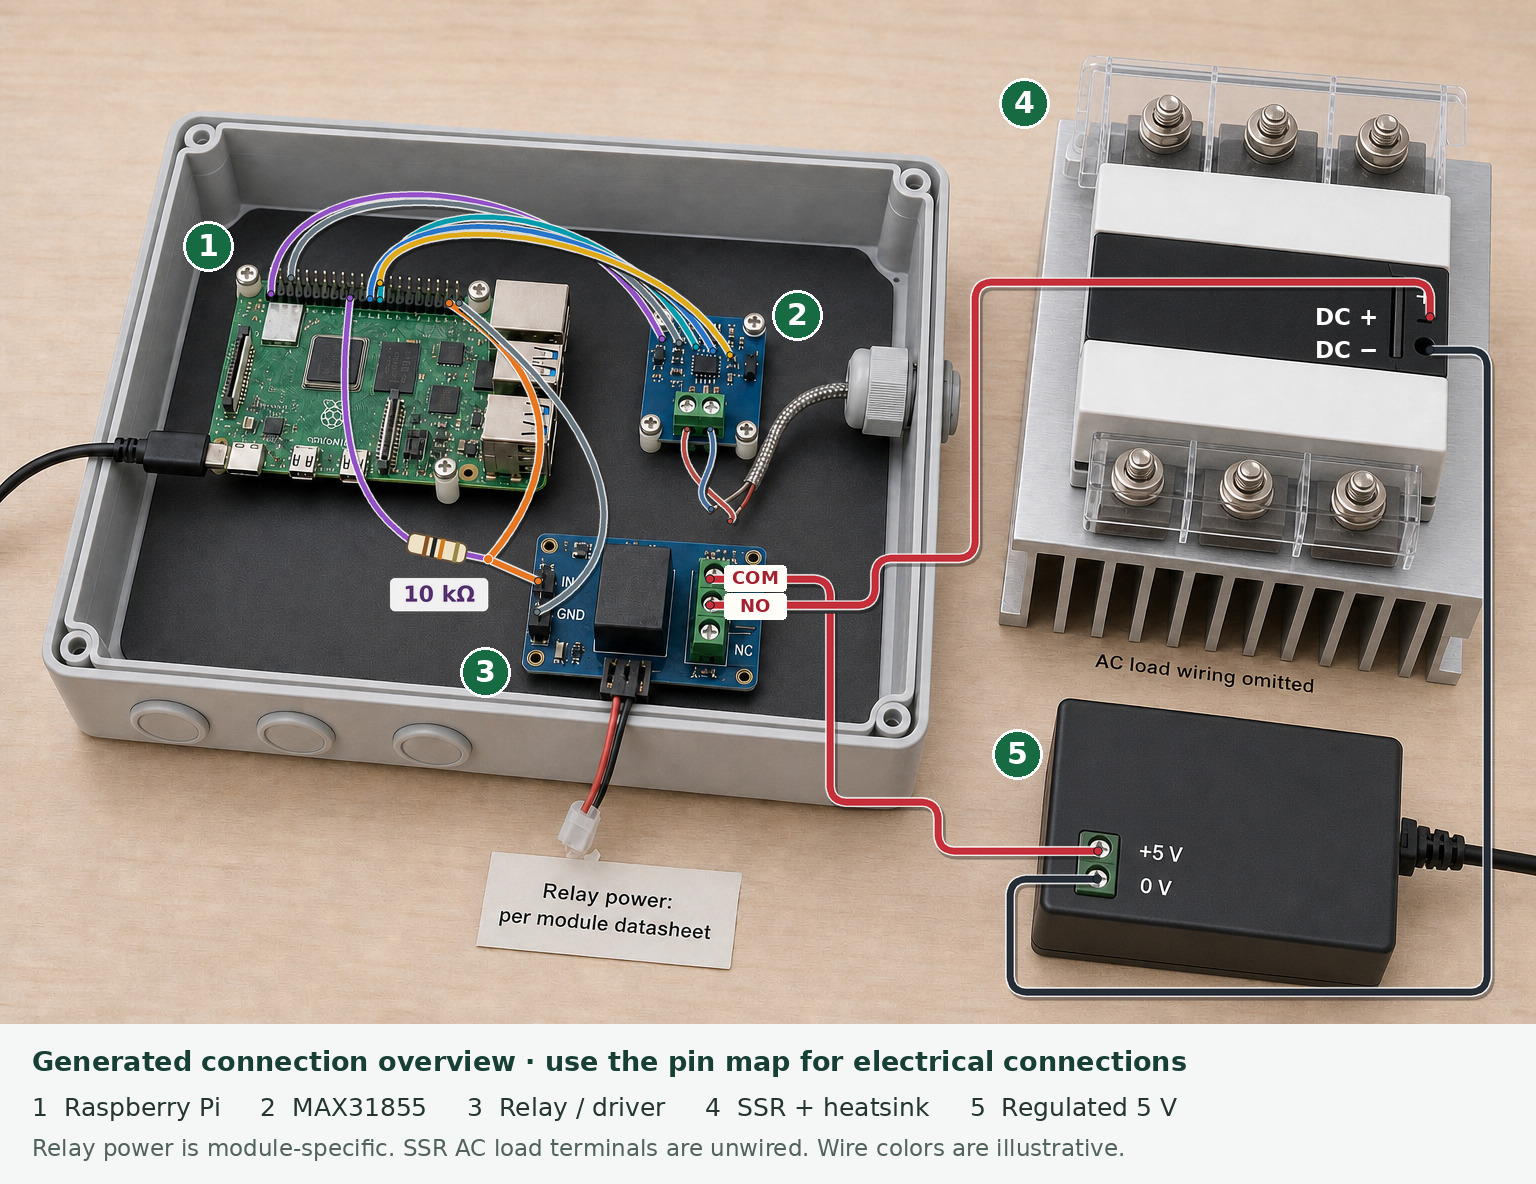
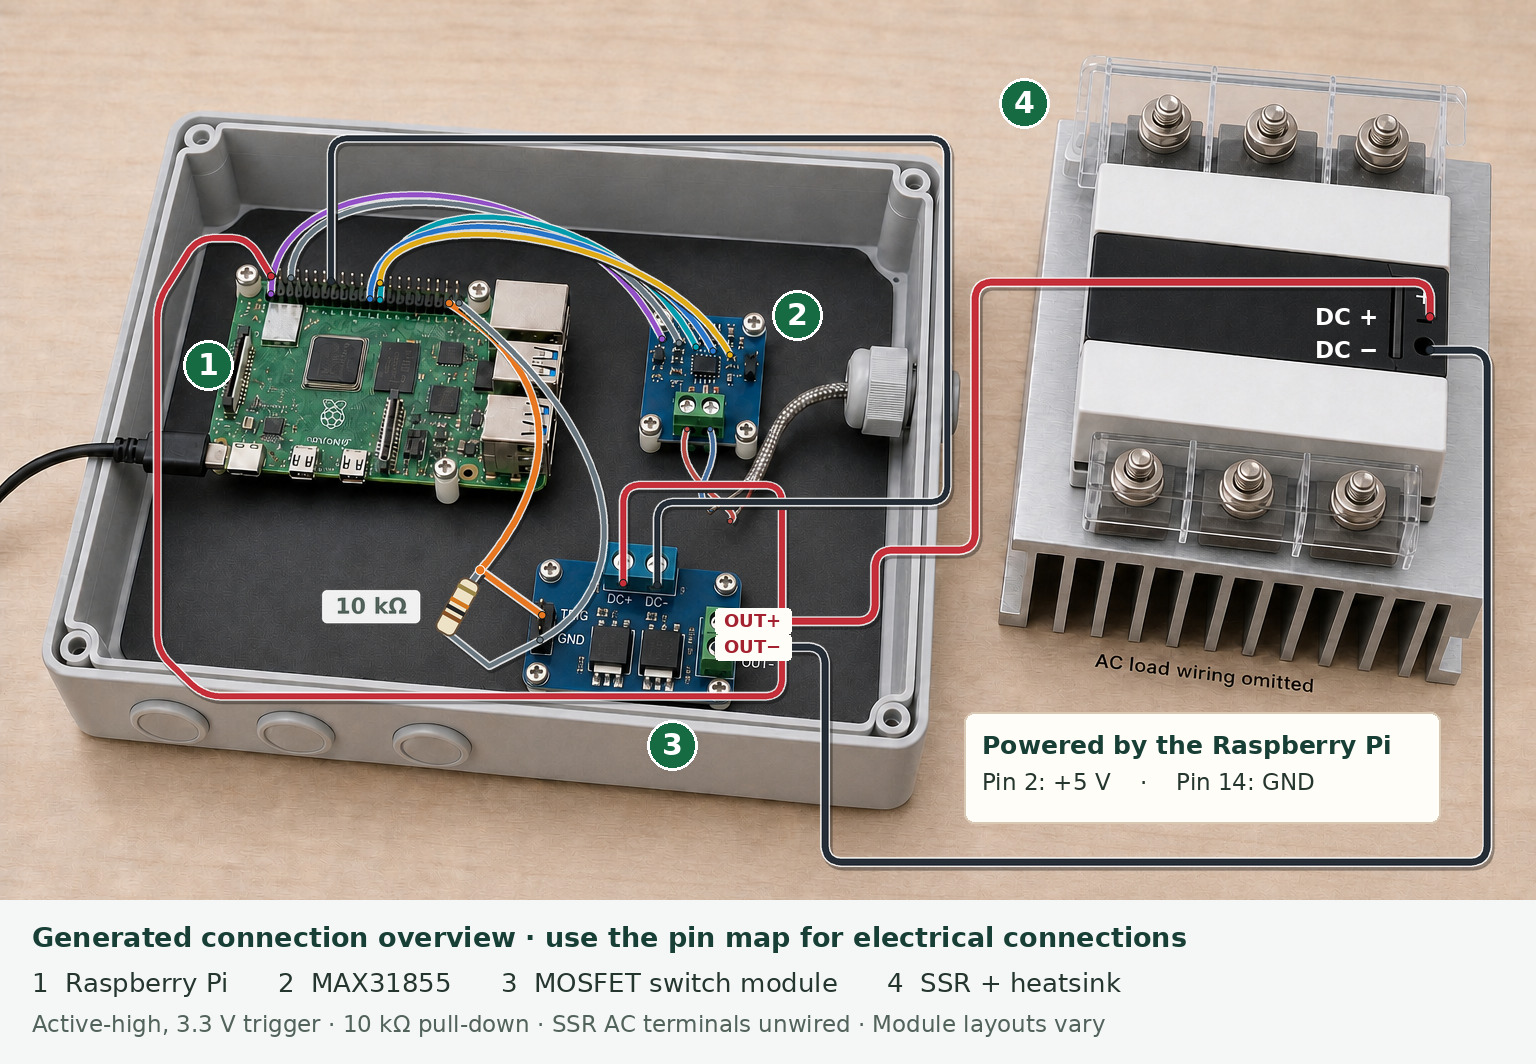
docs: use Pi-powered MOSFET in assembly guide

diff --git a/docs/images/hardware/generated-assembly.md b/docs/images/hardware/generated-assembly.md
@@ -2,7 +2,7 @@
 
 Created 15 October 2026 with the imagegen skill's approved API/CLI fallback,
 using `gpt-image-2`. The initial parts and mounting images used high quality,
-1536 × 1024 PNG. The wired overview uses a medium-quality generated base,
+1536 × 1024 PNG. The current MOSFET wired overview uses a medium-quality generated base,
 with connection lines and labels added locally. These illustrations cover
 component recognition, mounting and low-voltage connection overviews.
 They are not photographs of a completed or tested Raspberry Pi build.
@@ -14,6 +14,12 @@ and annotated PNG originals are retained in the workspace output.
 - [Parts layout](raspberry-pi-parts-generated.jpg)
 - [Assembly layout](raspberry-pi-assembly-generated.jpg)
 - [Wired assembly overview](raspberry-pi-wired-assembly-generated.jpg)
+
+The current wired overview uses the Raspberry Pi's 5 V header supply and a
+generic active-high, 3.3 V-compatible low-side MOSFET trigger switch module.
+It has no separate SSR-control supply or mechanical relay. The exact purchased
+module must meet the build guide's requirements; the image is not a verified
+product photograph. Earlier relay-version prompts below are retained as history.
 
 Use the [build guide's pin tables and schematic](../../builds/raspberry-pi.md#3-connect-the-low-voltage-parts)
 for electrical connections. Component appearance and wire colors in generated
@@ -42,10 +48,10 @@ Replace the sensor board in Image 1 with the blue MAX31855 breakout from Image 2
 Correct the mounting of both circuit boards. The Raspberry Pi has exactly four gold-ringed mounting holes in its PCB, one near each corner. Put one nylon standoff directly BELOW each actual PCB mounting hole and one small screw THROUGH that same hole from above. All four screw heads must be centered in the gold PCB mounting holes and actually secure the board. Remove every mounting screw or tall pillar that stands beside the Pi rather than passing through it. Do not add extra PCB holes. Apply the same physically correct through-hole mounting to the sensor breakout's corner holes. The PCB undersides must stay clear of the mounting plate. Do not add floating hardware.
 Maintain photographic realism. No new labels, text, wiring connections, lights, mains components or other changes. This remains an unpowered arrangement BEFORE wiring, not a finished or tested controller.
 
-## Wired assembly addition
+## Earlier relay wiring overview (superseded)
 
 Requested 15 October 2026: add the SSR and the connections between components.
-The final image shows a Raspberry Pi, MAX31855, compatible active-low relay,
+That version showed a Raspberry Pi, MAX31855, compatible active-low relay,
 three-phase DC-input SSR on a heatsink, and separate regulated 5 V SSR-control
 supply. The relay's logic/coil supply remains module-specific; its callout is
 deliberately separate from the drawn SSR-control loop. AC load terminals and NC
@@ -56,7 +62,7 @@ not published. A second edit made an unwired component base. Connection paths,
 the pull-up branch, terminal labels and numbered legend were drawn locally from
 the guide's connection table. This overlay shows the electrical relationships;
 generated component geometry is not an actual pin-position or drilling template.
-The final image is a 1536 × 1184 JPEG web copy; the generated base and annotated
+That version used a 1536 × 1184 JPEG web copy; the generated base and annotated
 PNG are retained in the workspace output.
 
 ### Initial wired-image prompt
@@ -84,3 +90,38 @@ Make ONLY these corrections:
 5. Replace the ventilated metal 5 V supply case with an insulated matte-black plastic DC supply block in the same position. Keep a single insulated power-input cable leaving the right edge. The only exposed connections on its front are two small low-voltage output terminals marked +5 V and 0 V, both unwired. No mains terminals or invented certification marks.
 
 Do not draw any new interconnecting wires. Do not add extra components, labels, arrows or current ratings. Do not change the positions or enlarge the parts. Preserve realistic small circuit boards, correct natural shadows and readable original two callouts. The actual connections will be added separately from a verified connection map.
+
+## Current Pi-powered MOSFET overview
+
+Requested 15 October 2026: use the Raspberry Pi's 5 V supply and replace the
+mechanical relay with a MOSFET trigger switch module. The edit used the earlier
+unwired component base as its input, preserving the Pi, sensor and SSR while
+removing the external supply and replacing the relay. It used `gpt-image-2`,
+medium quality, 1536 × 1024, through the approved imagegen API/CLI fallback.
+
+Wires and labels were added locally from the guide's connection map. The
+illustrated module must be an active-high, 3.3 V-compatible, nominal-5 V,
+low-side switch: DC+ feeds OUT+, and the MOSFET switches OUT− to DC−.
+Pi physical pin 2 supplies DC+; pin 14 supplies the DC− ground return;
+pin 37 / BCM26 supplies TRIG; pin 39 supplies the separate logic GND.
+A 10 kΩ pull-down branches from TRIG to logic GND. OUT+ and OUT− connect
+only to the SSR's DC + and −, respectively. The SSR negative input does not
+connect directly to Pi ground. No GPIO signal is powered from 5 V.
+
+The final image is a 1536 × 1064 JPEG, with the wiring and numbered legend
+overlaid on a cropped generated base. Terminal positions are illustrative;
+the pin table, schematic and actual module documentation govern assembly.
+The unannotated base and annotated PNG are retained in the workspace output.
+This replaces the relay/separate-supply version at the same published path.
+
+### MOSFET replacement prompt
+
+Use case: precise-object-edit.
+Asset type: photographic-style component base for a beginner Raspberry Pi kiln-controller assembly guide. This base will receive an exact wiring overlay afterward.
+Image 1 is the edit target, an unwired generated controller layout. Preserve the composition, camera, light, Raspberry Pi at left, blue MAX31855 above middle, gray enclosure and wood workbench. Preserve the three-phase DC-input SSR at right on its finned aluminium heatsink, its SIX large AC load terminals under clear guards, and the separate small DC + and DC - terminals. Keep the Pi's black USB-C power lead connected correctly.
+
+Make these two changes:
+1. Replace ONLY the blue mechanical relay board inside the enclosure with a compact blue MOSFET Field-Effect Transistor Trigger Switch Drive Module PWM, in the same lower-middle footprint and orientation. It must look like a small logic-level MOSFET switch module, with two flat black MOSFET packages and small supporting electronics, NO cube relay. The conceptual module has six separate connection positions: a two-position input power terminal at its TOP edge marked DC+ and DC-, a small two-position signal header at its LEFT edge marked TRIG and GND, and a two-position green screw terminal at its RIGHT edge marked OUT+ and OUT-. Keep every connection visibly separate. The two right output screw terminals should occupy approximately the previous COM and NO positions; there is no third NC terminal. Mount the module through its PCB mounting holes on short standoffs. Remove the previous relay power pigtail, its connector, and the entire 'Relay power: per module datasheet' paper callout. Do not invent a current rating, certification mark or exact brand/model number.
+2. Completely remove the external black 5 V supply block from the lower right, including its input cable and any labels. Restore the natural bare wood workbench in its place. The Pi's USB power lead remains the only incoming control-power cable. Preserve the blank area for a later explanatory wiring legend.
+
+Do NOT draw any interconnecting wires. Keep the Pi header, sensor signal contacts, MOSFET terminals and SSR DC input terminals empty for the later accurate wiring overlay. Keep the two loose thermocouple lead ends resting below the sensor, as in the input. Keep the nearby text 'AC load wiring omitted'. Preserve all unrelated parts and their exact positions as closely as possible; do not change the Pi or sensor connector counts. There must be no mechanical relay, no external low-voltage supply block, no relay pigtail, and no stray old wiring or labels. This is a generated conceptual illustration, not a photograph or pin-position reference for a tested build.

diff --git a/docs/builds/raspberry-pi.md b/docs/builds/raspberry-pi.md
@@ -110,7 +110,7 @@ same network. Use the Pi's IP if the name does not resolve.
 
 **Check:** the page identifies a simulated kiln. Try a sample schedule to learn
 the controls. The preview does not use real GPIO; successful simulation does not
-prove the sensor or relay is connected correctly. End the simulated firing and
+prove the sensor or output driver is connected correctly. End the simulated firing and
 press Ctrl+C in the SSH terminal before continuing.
 
 **If installation fails:** keep the first error, verify your OS/model and review
@@ -170,43 +170,61 @@ Module markings govern: on Adafruit breakouts **3Vo is an output**, not VIN.
 
 ### Heat-request output
 
+This example uses a **MOSFET Field-Effect Transistor Trigger Switch Drive Module
+PWM** that must meet these requirements: **active-high, 3.3 V-compatible trigger,
+nominal 5 V supply, and low-side switching**. Its DC+ supply terminal connects
+internally to OUT+; it switches OUT− to DC− when triggered. The generic product
+name does not establish these properties. Check the exact module's schematic,
+input current and terminal markings before following this example; an input
+pulled up to 5 V is unsuitable for direct Pi GPIO connection.
+
 | Physical Pi pin | GPIO / software name | Connect to |
 | ---: | --- | --- |
-| 37 | BCM26 / `D26` | Compatible 3.3 V driver input |
-| 39 | Ground | Driver input reference where required by its schematic |
+| 2 | +5 V supply rail | MOSFET module DC+ |
+| 14 | Ground | MOSFET module DC− |
+| 37 | BCM26 / `D26`, 3.3 V logic | MOSFET module TRIG / PWM input |
+| 39 | Ground | Module logic GND, if provided separately |
 
-The output must go through a verified compatible interface. Do not connect the
-documented up-to-40 mA SSR input directly to GPIO. The [parts guide](../PARTS.md#choose-the-output-interface-deliberately)
-explains what to establish before buying a driver.
+The module's power and logic grounds share the Pi ground in this example.
+Use its schematic to identify them; terminal positions and labels vary.
+**Physical pin 2 supplies power; physical pin 37 carries only a 3.3 V signal.**
+Never connect 5 V to a GPIO signal pin. Do not connect the documented
+up-to-40 mA SSR input directly to GPIO. The
+[parts guide](../PARTS.md#choose-the-output-interface-deliberately) lists the
+module requirements.
 
-For a **3.3 V-compatible active-low relay** matching the
-[documented example](../HARDWARE.md#4-connect-the-relay-and-ssr-input), connect
-**physical 37 / BCM26 to IN1** and **physical 39 to relay input logic GND**.
-HIGH means no heat request; LOW requests heat. Its dry contacts switch a
-separate regulated 5 V supply into the **3–32 VDC SSR control input**:
+The Pi's normal USB power supply also powers this **3–32 VDC SSR control input**
+through the header and MOSFET module. No separate SSR-control supply is used.
+Allow for the SSR reference's **40 mA maximum input current**, the module's own
+consumption, and all Pi/accessory loads when checking the supply and wiring
+budget. Do not connect an additional powered 5 V supply to the header.
 
-[![Generated conceptual Raspberry Pi, sensor, relay and SSR low-voltage assembly](../images/hardware/raspberry-pi-wired-assembly-generated.jpg)](../images/hardware/raspberry-pi-wired-assembly-generated.jpg)
+[![Generated conceptual Raspberry Pi, sensor, MOSFET switch and SSR assembly using Pi header 5 V](../images/hardware/raspberry-pi-wired-assembly-generated.jpg)](../images/hardware/raspberry-pi-wired-assembly-generated.jpg)
 
 *Generated assembly with a wiring overlay. Use the pin and connection tables as the
 electrical reference; actual module layouts vary. The SSR's AC load terminals
 are shown unwired.*
 
-**1** Raspberry Pi · **2** MAX31855 · **3** Relay/driver ·
-**4** SSR and heatsink · **5** Regulated 5 V SSR-control supply.
+**1** Raspberry Pi · **2** MAX31855 · **3** MOSFET switch module ·
+**4** SSR and heatsink.
 
 | From | To |
 | --- | --- |
-| Pi physical 17 / 3.3 V, through an optional 10 kΩ pull-up if required by the module | Relay IN1 |
-| Separate regulated control supply +5 V | Relay COM |
-| Relay NO (normally open) | SSR DC control input + |
-| Control supply 0 V | SSR DC control input − |
-| Relay NC (normally closed) | Leave unused |
+| Module OUT+ (connected internally to DC+) | SSR DC control input + |
+| Module OUT− (switched return) | SSR DC control input − |
+| Module TRIG / PWM input, through a suitable 10 kΩ pull-down resistor | Module logic GND |
 
-Power the relay's logic and coil according to its **exact module schematic**;
-VCC/JD-VCC connections and jumper positions are module-specific. The SSR-control
-supply's 0 V stays separate from Pi logic GND in this dry-contact example.
-The optional pull-up biases IN1 off only while the Pi's 3.3 V rail exists.
-Relay contacts carry the SSR's low-voltage control current, not kiln mains.
+**Do not connect SSR input − directly to Pi GND:** that would bypass this
+low-side switch. The current path when ON is Pi +5 V → DC+ / OUT+ → SSR input +
+→ SSR input − → OUT− → the module's MOSFET → DC− / Pi GND. Only the SSR's DC
+control terminals connect to this circuit; its AC load terminals remain separate.
+
+The 10 kΩ pull-down holds TRIG low when GPIO is floating; verify it suits the
+module's input circuit. It cannot override an actively driven HIGH signal.
+For this active-high module, **LOW means no heat request and HIGH requests heat**;
+leave **Invert SSR control signal off** (`gpio_heat_invert = False`).
+The word “PWM” in the module's name does not call for high-frequency PWM here:
+the controller uses timed ON/OFF heat requests for the AC SSR.
 
 Mount the finished low-voltage assembly securely, with labeled cables, strain
 relief and separation from power wiring. Do not treat loose bench jumper wires
@@ -238,11 +256,15 @@ KILN_BOARD=raspberry-pi venv/bin/python kiln-controller.py
 Review **Settings → Sensor & wiring**. Match every pin to the table and set
 **Invert SSR control signal** according to the actual driver:
 
-- Active-high: leave it off; LOW is the no-heat level.
-- Active-low: enable it; HIGH is the no-heat level.
+- The active-high MOSFET module described here: leave it **off**; LOW is the
+  no-heat level (`gpio_heat_invert = False`).
+- A different, verified active-low interface: enable it; HIGH is the no-heat
+  level. Its wiring must follow its own schematic.
 
-Review the control cycle for the driver. The initial 30-second cycle is intended
-to avoid rapid mechanical-relay switching, not to certify a particular relay.
+Review the control cycle for the driver and SSR. The installer retains a
+conservative 30-second initial cycle; this does not require a mechanical relay.
+Choose any later timing change for the actual SSR and kiln during commissioning;
+do not configure high-frequency PWM merely because the MOSFET board accepts it.
 Leave recovery and all protection overrides disabled during commissioning.
 Save, review, and apply while idle. A terminal-launched process exits on apply;
 rerun the same command to load the saved values.
@@ -253,8 +275,11 @@ Before allowing real heat, verify with mains isolated:
    no heat and the driver/SSR input agrees.
 2. Start/stop a suitable bench test only as part of a planned output check;
    establish which electrical levels turn the request on and off.
-3. Confirm the output is off during boot, shutdown and controller power loss
-   **while the driver/SSR supply stays energized**.
+3. Confirm the output is off during boot, process exit, shutdown and controller
+   power loss. **The Pi's 5 V header rail can remain energized after OS shutdown**:
+   check the SSR input while that rail is still present, and again when USB
+   power is removed. A pull-down helps only when the GPIO is not driving HIGH;
+   neither it nor a stopped process proves a faulted controller will switch off.
 4. Confirm a disconnected/faulted sensor prevents heating and produces a fault.
 
 The service and software OFF calls are useful checks, not a substitute for

diff --git a/docs/PARTS.md b/docs/PARTS.md
@@ -31,7 +31,8 @@ mounting and the exact wiring diagram.
 | 1 | SD reader | Needed to flash the OS from your computer. |
 | 1 | MAX31855 K-type converter breakout | Use a reputable module with a published schematic and 3.3 V logic compatibility. The [Adafruit MAX31855 guide](https://learn.adafruit.com/thermocouple) explains the labeled breakout. Check whether pin headers and screw terminals need soldering. |
 | 1 | Ungrounded, electrically insulated K-type kiln thermocouple | Probe/sheath temperature rating and mounting must suit the kiln; do not use an ordinary low-temperature oven probe. Match any extension wire/connectors to type K. Identify T+ and T− from their labels, not wire color alone. |
-| 1 | GPIO-compatible output interface | Input must suit 3.3 V logic; output must drive the chosen SSR's control input. Record exact module, supply requirements, polarity and controller-power-loss behavior. See below before buying. |
+| 1 | GPIO-compatible output interface | Pi example: an active-high, low-side MOSFET trigger switch module accepting nominal 5 V power and 3.3 V logic, with an input safe for Pi GPIO. It switches the SSR's DC control current. The Orange Pi example retains its relay interface. Check the exact module requirements below. |
+| 1 for the Pi example | Suitable 10 kΩ resistor | Pulls the MOSFET trigger input to logic ground when GPIO is floating; check compatibility with the module's input circuit. |
 | As needed | Jumper leads / terminal connectors / low-voltage wire | Useful for bench assembly, with proper permanent connectors and strain relief for the finished controller. Never use a solderless breadboard for mains. |
 | As needed | Enclosure, spacers and cable glands | Keep heat, mains wiring and sensor/logic wiring separated; ground exposed metal where required. |
 | 1 | Local network connection | Ethernet or Wi-Fi supported by your board/OS, with a browser on a phone/computer. No separate touch screen is required. |
@@ -45,6 +46,22 @@ photographs of a verified Raspberry Pi build of this fork.
 
 ## Choose the output interface deliberately
 
+The [Raspberry Pi example](builds/raspberry-pi.md#heat-request-output) uses a
+**MOSFET Field-Effect Transistor Trigger Switch Drive Module PWM** requiring an
+**active-high 3.3 V trigger, nominal 5 V supply and low-side output**. This generic
+product name is not an exact part number or evidence of compatibility. Check
+that DC+ connects to OUT+ and OUT− is the return switched to DC−, and that the
+trigger input neither exposes GPIO to 5 V nor draws excessive GPIO current.
+
+The Pi's normal USB supply powers the module and SSR control input through
+header pin 2 (+5 V). Include the SSR reference's **40 mA maximum input current**,
+module consumption and Pi/accessory loads in the power budget. Pi ground and
+module power/logic ground are common. **SSR input − goes to switched OUT−, not
+directly to Pi ground**, which would bypass the switch. A suitable 10 kΩ
+trigger-to-ground pull-down provides a low bias when GPIO is floating.
+Leave **Invert SSR control signal off** for this active-high arrangement.
+Do not add a second powered 5 V supply to the Pi header or apply 5 V to GPIO.
+
 The documented Orange Pi assembly uses an **active-low relay interface**. Its
 contacts switch regulated 5 V into a **3–32 VDC-input SSR**. The supplied SSR
 reference lists up to **40 mA input current**; do not connect it directly to a
@@ -53,18 +70,21 @@ GPIO pin. Read the [relay/SSR diagram](HARDWARE.md#4-connect-the-relay-and-ssr-i
 Before buying a substitute, obtain its actual schematic/datasheet and establish:
 
 - Input works at 3.3 V without sending higher voltage into the board.
-- Supply and ground connections, and the role of any VCC/JD-VCC jumper.
+- Supply, ground and switched-output connections, including any VCC/JD-VCC
+  jumper on a relay module.
 - Whether HIGH or LOW requests heat, and which setting produces OFF.
 - Its output can supply/switch the SSR input current at the required voltage.
-- Its output stays OFF at boot and when controller power is lost while the
-  driver/SSR supply stays on.
+- Its OFF behavior at boot, process exit, OS shutdown and controller power loss.
+  Pi header 5 V can stay energized after shutdown, and a pull-down cannot
+  override a GPIO that remains HIGH.
 - Its permitted switching rate. The documented mechanical relay uses a
-  30-second cycle; a different interface needs appropriate timing.
+  30-second cycle; a different interface needs appropriate timing. “PWM” in the
+  MOSFET board's name does not mean high-frequency PWM should drive the AC SSR.
 
 The current documentation does not establish an exact universally recommended
-relay-module SKU. That choice remains a build-validation item, not a “buy any
-relay” instruction. A controller-powered pull-up alone cannot prove safe OFF
-behavior after controller power is lost.
+MOSFET or relay module SKU. Record the purchased module and verify its behavior
+in the physical build. An input-bias resistor alone does not establish that
+the output switches off under every controller fault.
 
 ## Kiln power components
 

diff --git a/README.md b/README.md
@@ -76,15 +76,16 @@ label alone does not mean it can be driven directly from GPIO.
 Follow the [getting-started guide](docs/GETTING-STARTED.md) for the full sequence.
 Each board guide keeps the wiring, software profile and commands together.
 
-[![Generated connection overview showing Raspberry Pi, sensor, relay driver, SSR on a heatsink and separate 5 V control supply](docs/images/hardware/raspberry-pi-wired-assembly-generated.jpg)](docs/images/hardware/raspberry-pi-wired-assembly-generated.jpg)
+[![Generated connection overview showing Raspberry Pi, sensor, MOSFET switch and SSR on a heatsink, powered from the Pi's 5 V header](docs/images/hardware/raspberry-pi-wired-assembly-generated.jpg)](docs/images/hardware/raspberry-pi-wired-assembly-generated.jpg)
 
-*Generated assembly with a wiring overlay. The relay switches the SSR's
-low-voltage control input; the SSR's AC load terminals are shown unwired.
+*Generated assembly with a wiring overlay. A compatible active-high MOSFET
+module switches the SSR's low-voltage control input using the Pi's 5 V supply;
+the SSR's AC load terminals are shown unwired.
 Use the [Pi guide's pin and connection tables](docs/builds/raspberry-pi.md#heat-request-output)
-for electrical connections and the chosen relay's schematic for its power pins.*
+for electrical connections and the chosen module's schematic for its terminals.*
 
-**1** Raspberry Pi · **2** MAX31855 · **3** Relay/driver ·
-**4** SSR and heatsink · **5** Regulated 5 V SSR-control supply.
+**1** Raspberry Pi · **2** MAX31855 · **3** MOSFET switch module ·
+**4** SSR and heatsink.
 
 1. **Prepare the SD card and network.** Flash the recommended OS, create your
    account, connect the board and find its address. **Check:** you can log in.
